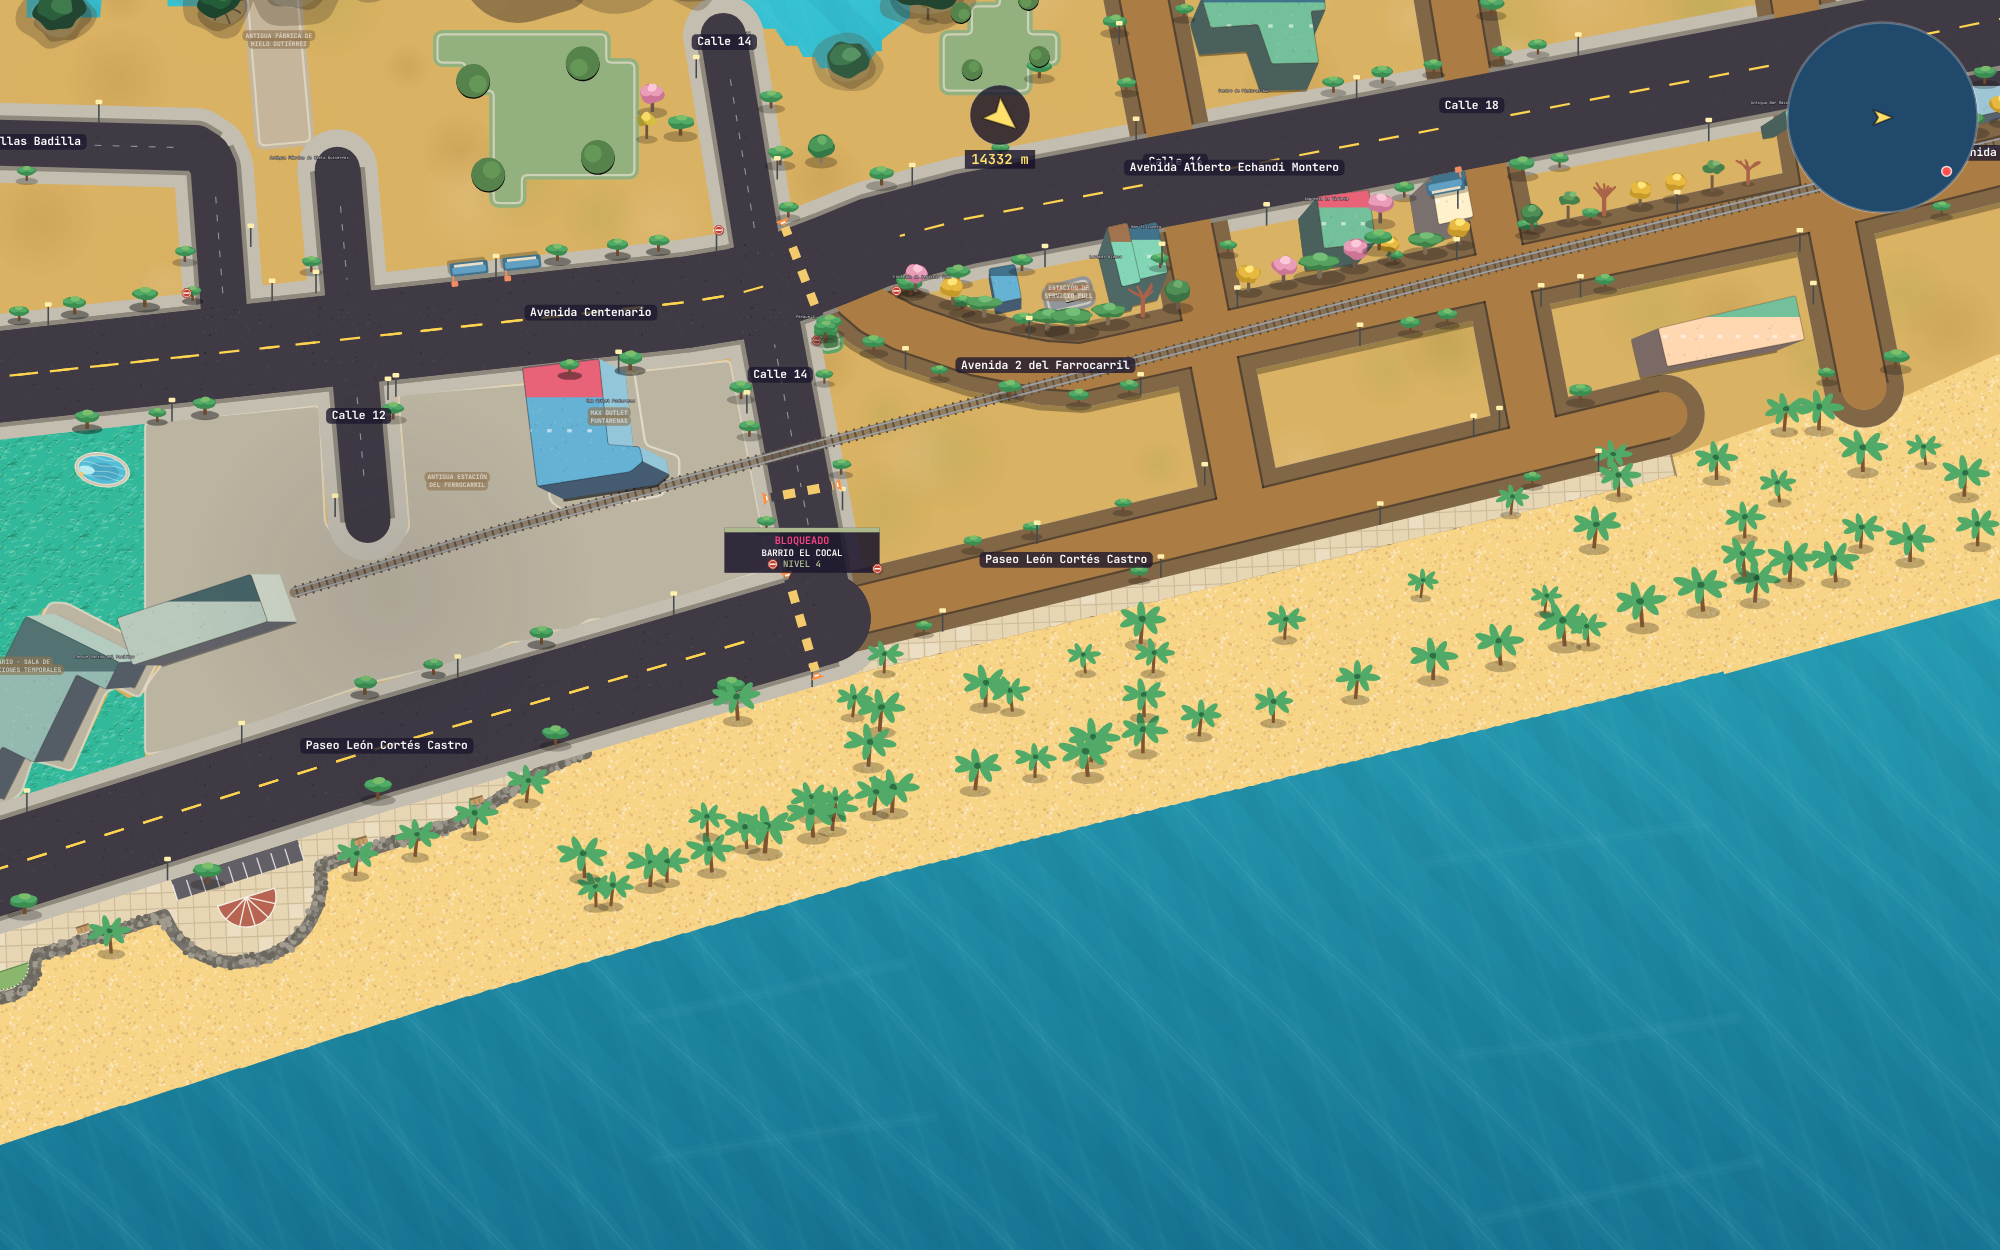
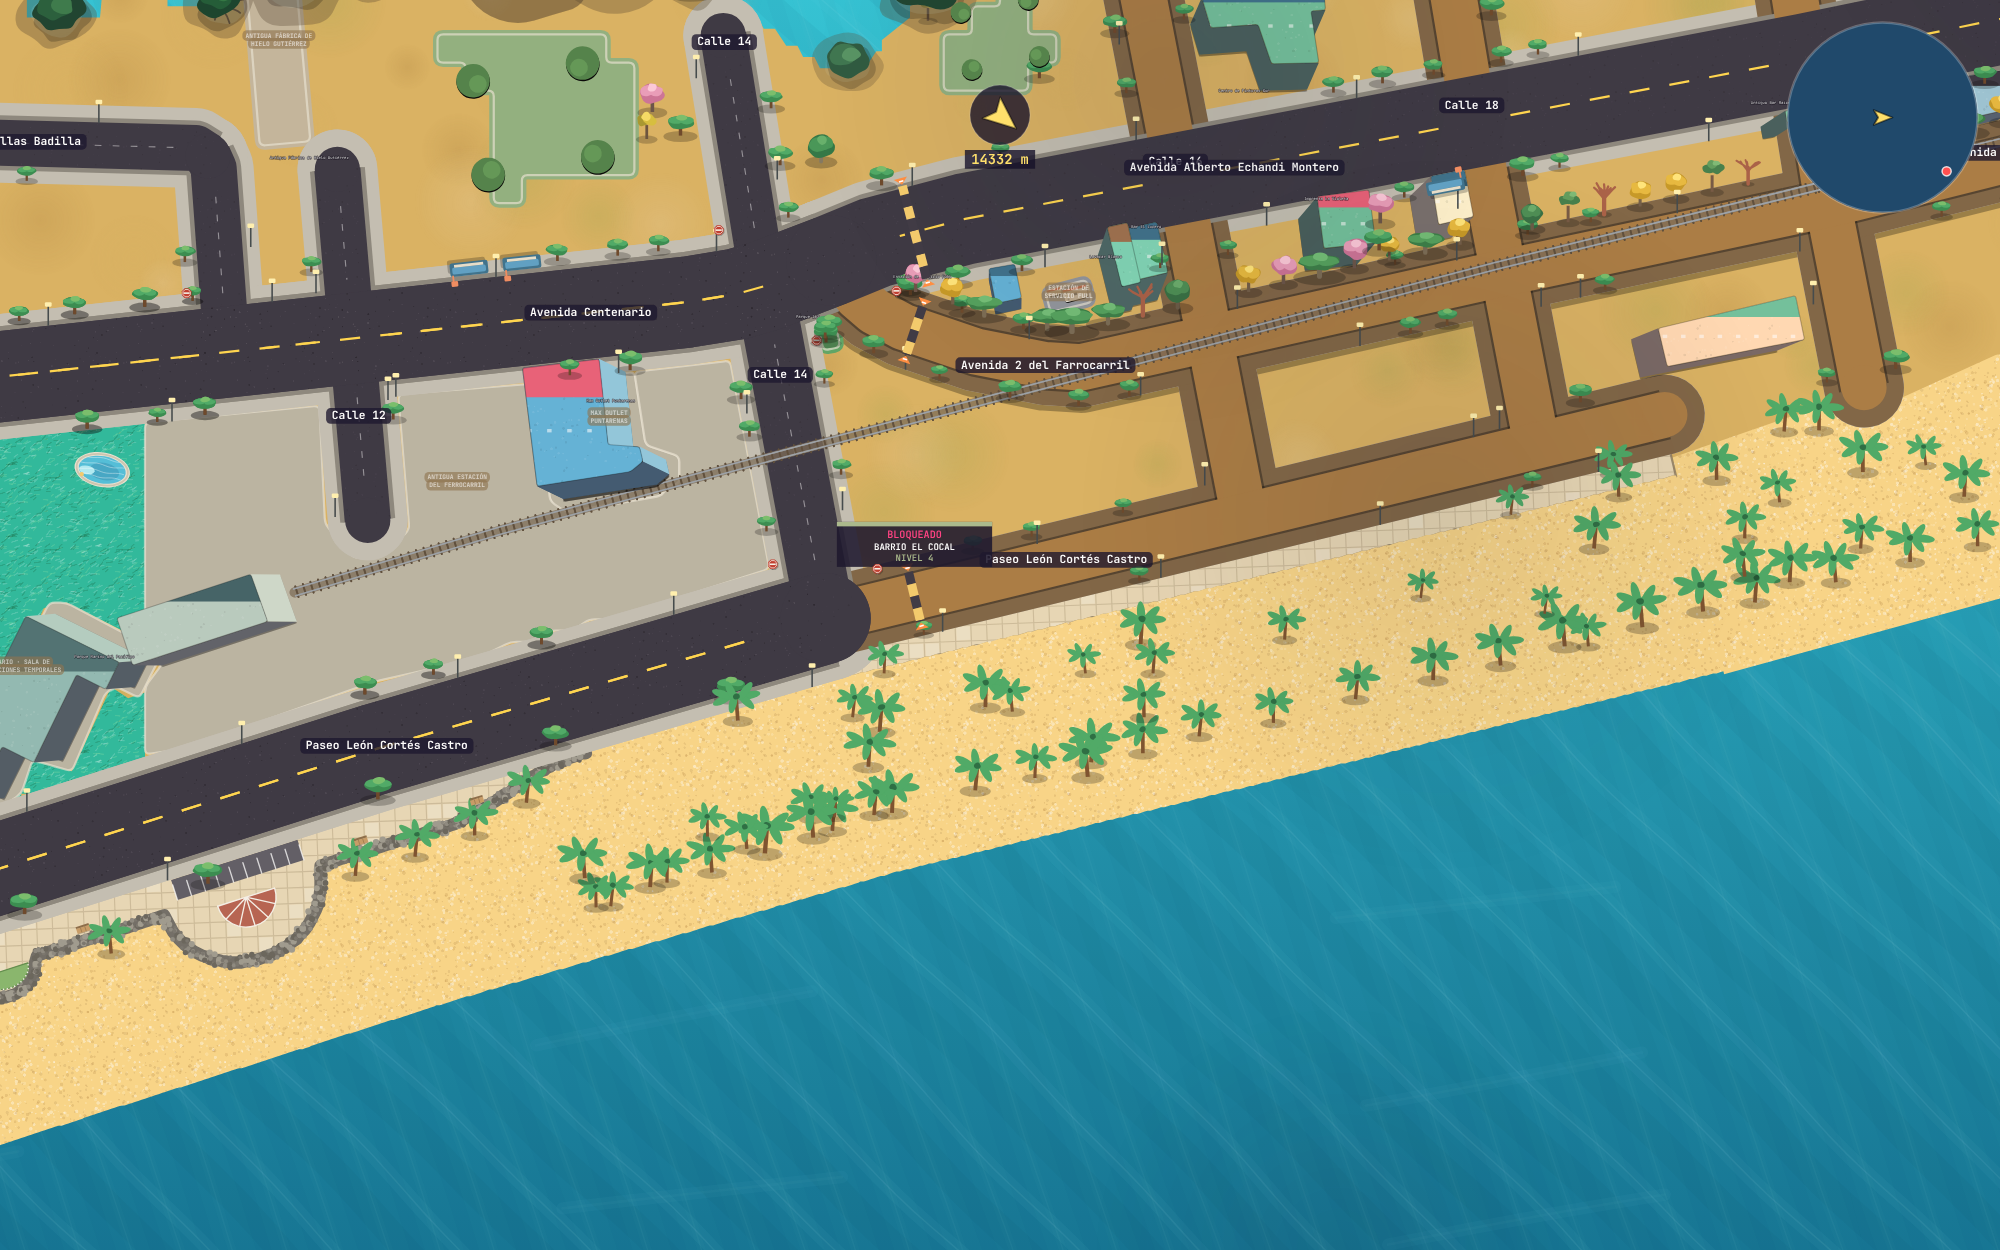
feat(world): terminal de ferris gris hasta la tierra del este, escollera alrededor de todo el patio, estribos en las rampas y el candado de El Cocal en la calle de barro
El patio se extiende al este sobre la tierra vieja (terminal.eastToX) y lo
que había encima sale. La escollera rodea todo el patio menos su lado de
calle, se pinta DESPUÉS del asfalto, y la del tramo norte llega hasta el
borde del patio y empalma con ella. Cada rampa nace de un estribo a
escuadra (terminal.abutmentM). El candado de El Cocal pasa a la calle de
barro, después de la rotonda del León Cortés, y ya no cierra la Calle 14
(propuesta en punta.json → districtEdges). Preview sin reconstruir.

Claude-Session: https://claude.ai/code/session_018GSydhWuDAT4g4GG3QKVY6

Changed region(s): [[0.341, 0.4056, 0.496, 0.4992], [0.434, 0.2496, 0.465, 0.2808], [0.434, 0.1872, 0.465, 0.2184]]

diff --git a/src/render/c2d/punta.js b/src/render/c2d/punta.js
@@ -316,17 +316,19 @@ function drawPunta(view, t = 0) {
   for (const sd of P.sands || []) ctx.fill(shape(sd));
   // el MISMO grano que la playa del mundo, para que no haya dos arenas
   { const tex = textureScale(); for (const sd of P.sands || []) overlayTexture(ctx, "sand", tex, () => ctx.fill(sd._path)); }
-  for (const line of P.riprap || []) paintRiprap(line, view);
   // el patio de la terminal de ferris: asfalto redondeado y sus toldos
   if (P.yard) {
     const Y = M.yard; ctx.fillStyle = Y.asphalt; ctx.fill(shape(P.yard));
+    // los estribos de las rampas: patio a escuadra con cada rampa
+    for (const ab of P.yard.abutments || []) ctx.fill(flatPath(ab, true));
     for (const tn of P.yard.tents) {
       ctx.fillStyle = Y.tentShadow; ctx.fillRect(tn.x - tn.s / 2 + 3, tn.y - tn.s / 2 + 4, tn.s, tn.s);
       ctx.fillStyle = Y.tent; ctx.fillRect(tn.x - tn.s / 2, tn.y - tn.s / 2, tn.s, tn.s);
       ctx.strokeStyle = Y.tentRidge; ctx.lineWidth = 1; ctx.beginPath();
       ctx.moveTo(tn.x - tn.s / 2, tn.y - tn.s / 2); ctx.lineTo(tn.x + tn.s / 2, tn.y + tn.s / 2); ctx.moveTo(tn.x + tn.s / 2, tn.y - tn.s / 2); ctx.lineTo(tn.x - tn.s / 2, tn.y + tn.s / 2); ctx.stroke();
     }
-  }
+  }  for (const line of P.riprap || []) paintRiprap(line, view);
+
   // el suelo, en el orden en que el mundo lo trae: terreno, deck, malecones…
   for (const g of P.grounds || []) {
     const ink = g.use === "deck" ? POOL.deck : (M.ground[g.use] || M.ground.park);
